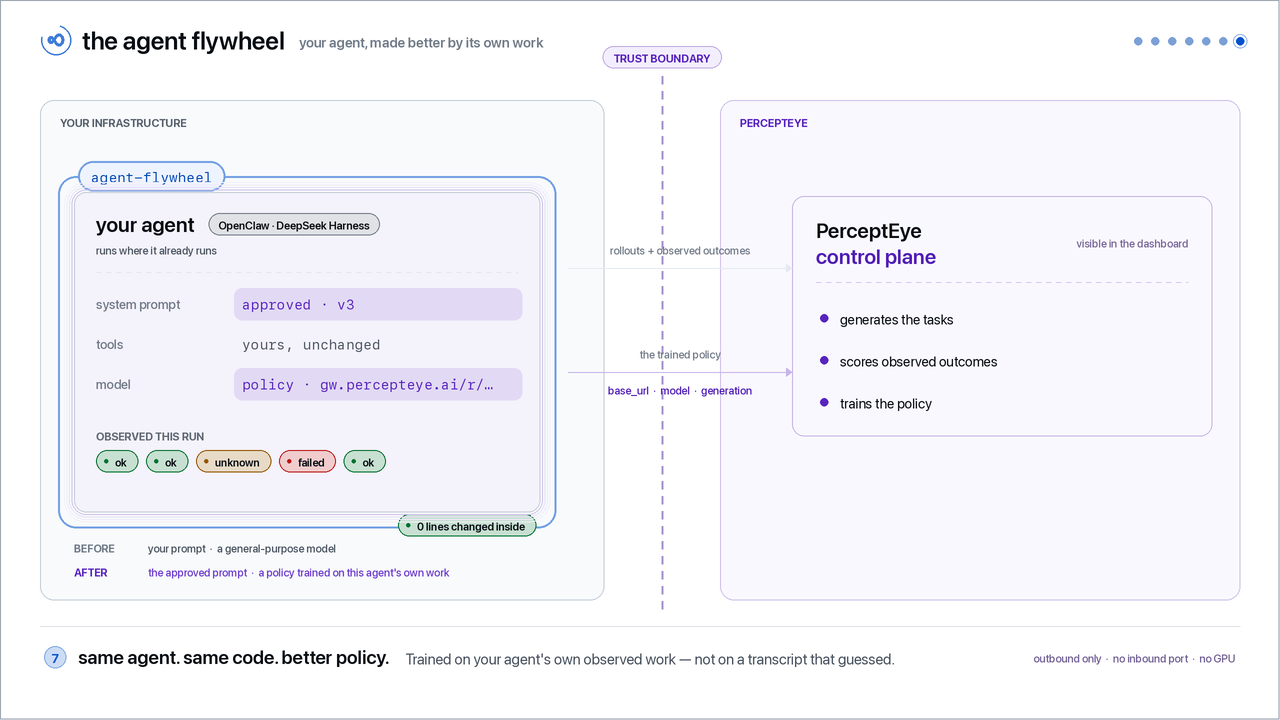
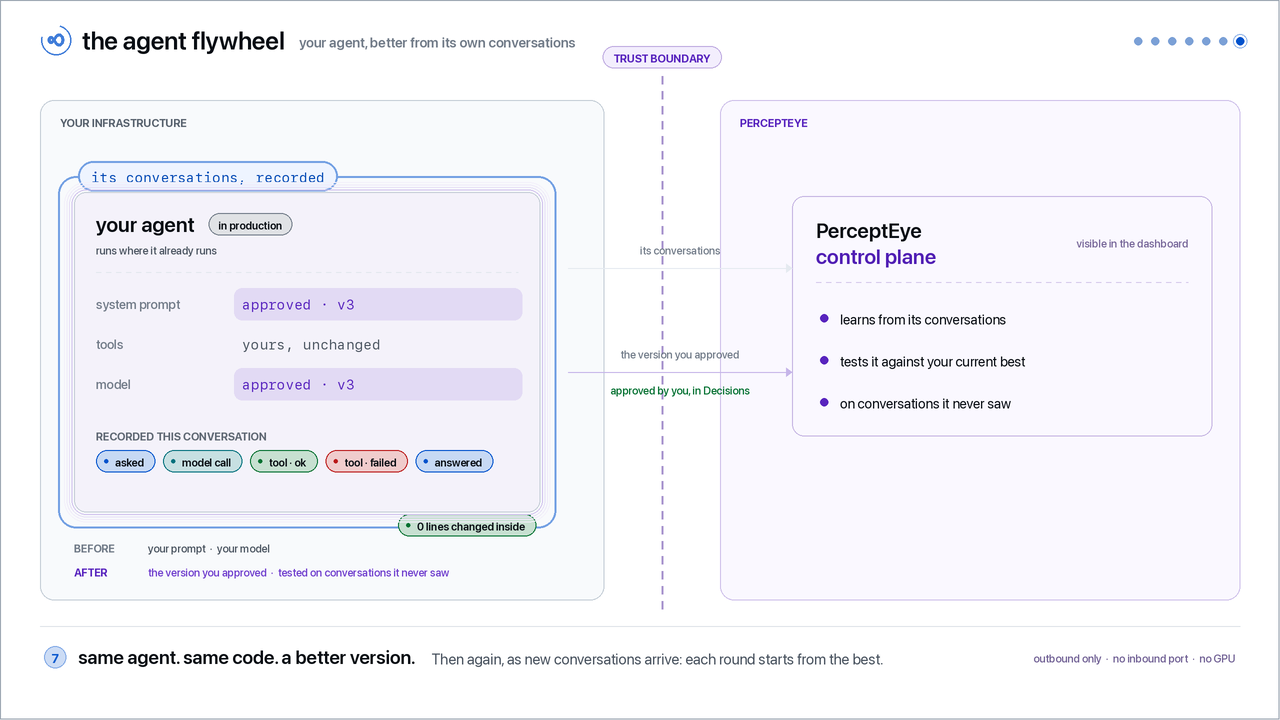
The README figures are re-rendered from their renderers to show the current loop (conversations recorded where the agent runs by our SDK, the OpenTelemetry traces it exports or an observability provider, sent once the customer allows it, a new version learned from them and tested against the current

diff --git a/README.md b/README.md
@@ -54,11 +54,10 @@ Your agent keeps running where it runs today, on your credentials, unchanged. We
 [![lines changed in your agent](https://img.shields.io/badge/lines_changed_in_your_agent-0-ec4899?style=for-the-badge)](#-start)
 [![tests](https://img.shields.io/badge/tests-708_·_0_skips-22c55e?style=for-the-badge)](#-development)
 [![license](https://img.shields.io/badge/license-MIT-14b8a6?style=for-the-badge)](LICENSE)
-
-<img src="docs/assets/flywheel-overview.gif"
-     width="1040"
-     alt="Your agent — prompt, tools and model — sits inside your infrastructure. The plugin loads beside it in your harness with zero lines changed inside. Rollouts and observed outcomes go out; a trained policy comes back. Both the system prompt row and the model row flip to what the control plane approved for this agent, while the tools row stays untouched.">
 <!-- /lang -->
+
+<img src="docs/assets/flywheel-overview.gif" width="1040"
+     alt="Your agent sits inside your infrastructure, unchanged. Its real conversations are recorded where it runs, by our SDK, the OpenTelemetry traces it already exports, or your observability provider, and go out only once you allow it. PerceptEye learns a new version from them and tests it against your agent's current best on conversations it never saw. You approve the winner in Decisions, and the agent's prompt and model change to the version you approved, while its tools stay as they are.">
 
 **[Quickstart](docs/quickstart.md)** · [How it gets better](#-how-it-gets-better) · [Start](#-start) · [OpenTelemetry push](docs/otlp.md) · [What reaches us](#-what-reaches-us) · [Docs](#-docs)
 
@@ -67,6 +66,11 @@ Your agent keeps running where it runs today, on your credentials, unchanged. We
 ---
 
 ## 🔁 How it gets better
+
+<p align="center">
+  <img src="docs/assets/flywheel-loop.gif" width="980"
+       alt="One round of the loop, as a ring across a trust boundary: your agent's conversations, recorded where it runs, go out once you allow it; a new version is learned from them; it is tested against your agent's current best on conversations it has never seen; a version that did better waits for your approval in Decisions; and your agent runs the winner, and the next round starts from it. Practice tasks are an optional extra.">
+</p>
 
 1. **We learn from your agent's real conversations.** The SDK records what your users asked, what the model saw, what the tools did and what your agent answered, and sends it to us once you allow it.
 2. **Each new version is tested against your agent's current best,** on conversations it has never seen.
@@ -125,11 +129,6 @@ Send us the traces your agent already exports, as a second destination. With an 
 Your agent can also work through practice tasks we write from its own tools and system prompt, graded as it goes. You [start them](docs/dashboard.md#run-practice-tasks) from your agent's page.
 
 <!-- lang -->
-<p align="center">
-  <img src="docs/assets/flywheel-loop.gif" width="980"
-       alt="The SDK inside the customer's agent, talking to the control plane. On the left, inside your infrastructure: install the plugin, your harness loads it, your agent runs unchanged, and its trajectory is recorded. A dashed trust boundary splits the picture. On the right, the control plane: it generates tasks from your tool surface, scores every rollout, trains the policy, and hands a candidate back as an endpoint you can call. A return arrow closes the ring — the better agent runs the next lap. The figure predates delivery: both halves — the approved system prompt and the model it was certified with — now return all the way into the agent, once a person has approved each.">
-</p>
-
 In training mode, the default, the plugin claims practice tasks and runs each in its own `percepteye-rollout-*` session, never one you are using. Training mode needs `hooks.allowConversationAccess: true`; `PERCEPTEYE_AGENT_MODE=production` claims none. → [Reference](docs/reference.md#two-modes-one-switch)
 <!-- /lang -->
 

diff --git a/docs/assets/README.md b/docs/assets/README.md
@@ -1,43 +1,28 @@
 # Figures
 
-Generated, not drawn — and **not** by this repo. The renderers live in the
+Generated, not drawn, and **not** by this repo. The renderers live in the
 sibling Python package, which owns the frame pipeline (Pillow + ffmpeg):
 
-    ../../agent-flywheel/docs/assets/render.sh node      # these two
-    ../../agent-flywheel/docs/assets/render.sh spinner   # the title mark
+    ../../agent-flywheel/docs/assets/render.sh            # every figure
+    ../../agent-flywheel/docs/assets/render.sh overview   # or one of them
 
-`render.sh node` writes `flywheel-{overview,loop}-node.*` over there; they are
-copied here under their plain names because this repo carries only one flavour.
+**Both READMEs show the same figures.** They draw the improvement loop:
+conversations recorded where the agent runs (our SDK, the OpenTelemetry
+traces it already exports, or an observability provider), sent once the
+customer allows it, a new version learned from them and tested against the
+agent's current best on conversations it never saw, the winner approved in
+Decisions, and the round repeated. That loop is the same for this plugin and
+for the Python SDK, so there is one set of files and both repos carry it under
+the same names. They used to come in a Python and a Node flavour, each naming
+what its own customer would type; nothing in the loop depends on that any
+more.
 
-**Why a flavour exists at all.** The two diagrams show what a customer would
-actually type, and that differs per package. The first cut of this README
-shipped the PYTHON frames — `pip install agent-flywheel`,
-`import agent_flywheel as fw`, `fw.serve(...)`, and a
-`LangChain · ADK · a CLI` chip — to people installing a harness plugin. A
-figure that advertises the wrong SDK is worse than no figure.
+After a render, copy `flywheel-{overview,loop}.{gif,png}` and
+`flywheel-spinner.gif` here. The Python repo's
+`tests/test_node_figures_match.py` compares these files with what its renderer
+produced, byte for byte, and checks that both READMEs show the same figures.
 
-The production beat says `PERCEPTEYE_AGENT_MODE=production` here rather than
-the Python `fw.apply_current_policy(...)`, and the closing caption says the
-plugin applies both halves itself. Both are true of this lane and false of the
-Python one, which is why the figures are flavoured at all: the Python SDK hands
-the policy back for your code to apply and deliberately does not apply the
-prompt, while this plugin applies the approved prompt through
-`before_prompt_build` and the approved model through `before_model_resolve`
-plus the `normalizeTransport` of a provider it registers.
-
-So in the overview, BOTH the system-prompt row and the model row flip here,
-and only the model row flips in the Python figure. That difference is a claim
-about the packages, not styling — `_ROWS` in `render_overview.py` is the table
-that makes it, and it is the reason a figure copied between the two repos is
-wrong even when it looks right.
-
-Regenerate after touching either renderer — and note what that sentence is:
-a request, not a mechanism. Nothing in either repo compares these four files
-with the ones `render.sh node` produces, so a `_ROWS` edit that is rendered but
-not copied leaves this README advertising the wrong set of applied halves with
-nothing anywhere going red. Treat a renderer change as a two-repo change.
-
-These are documentation only, and that part IS mechanised: `files` in
+These are documentation only, and that part is mechanised too: `files` in
 package.json is an allowlist that excludes `docs/`, and
 `test/oss-boundary.test.js` asserts it against what `npm pack` actually
 produces rather than against the manifest, so no image extension and nothing
